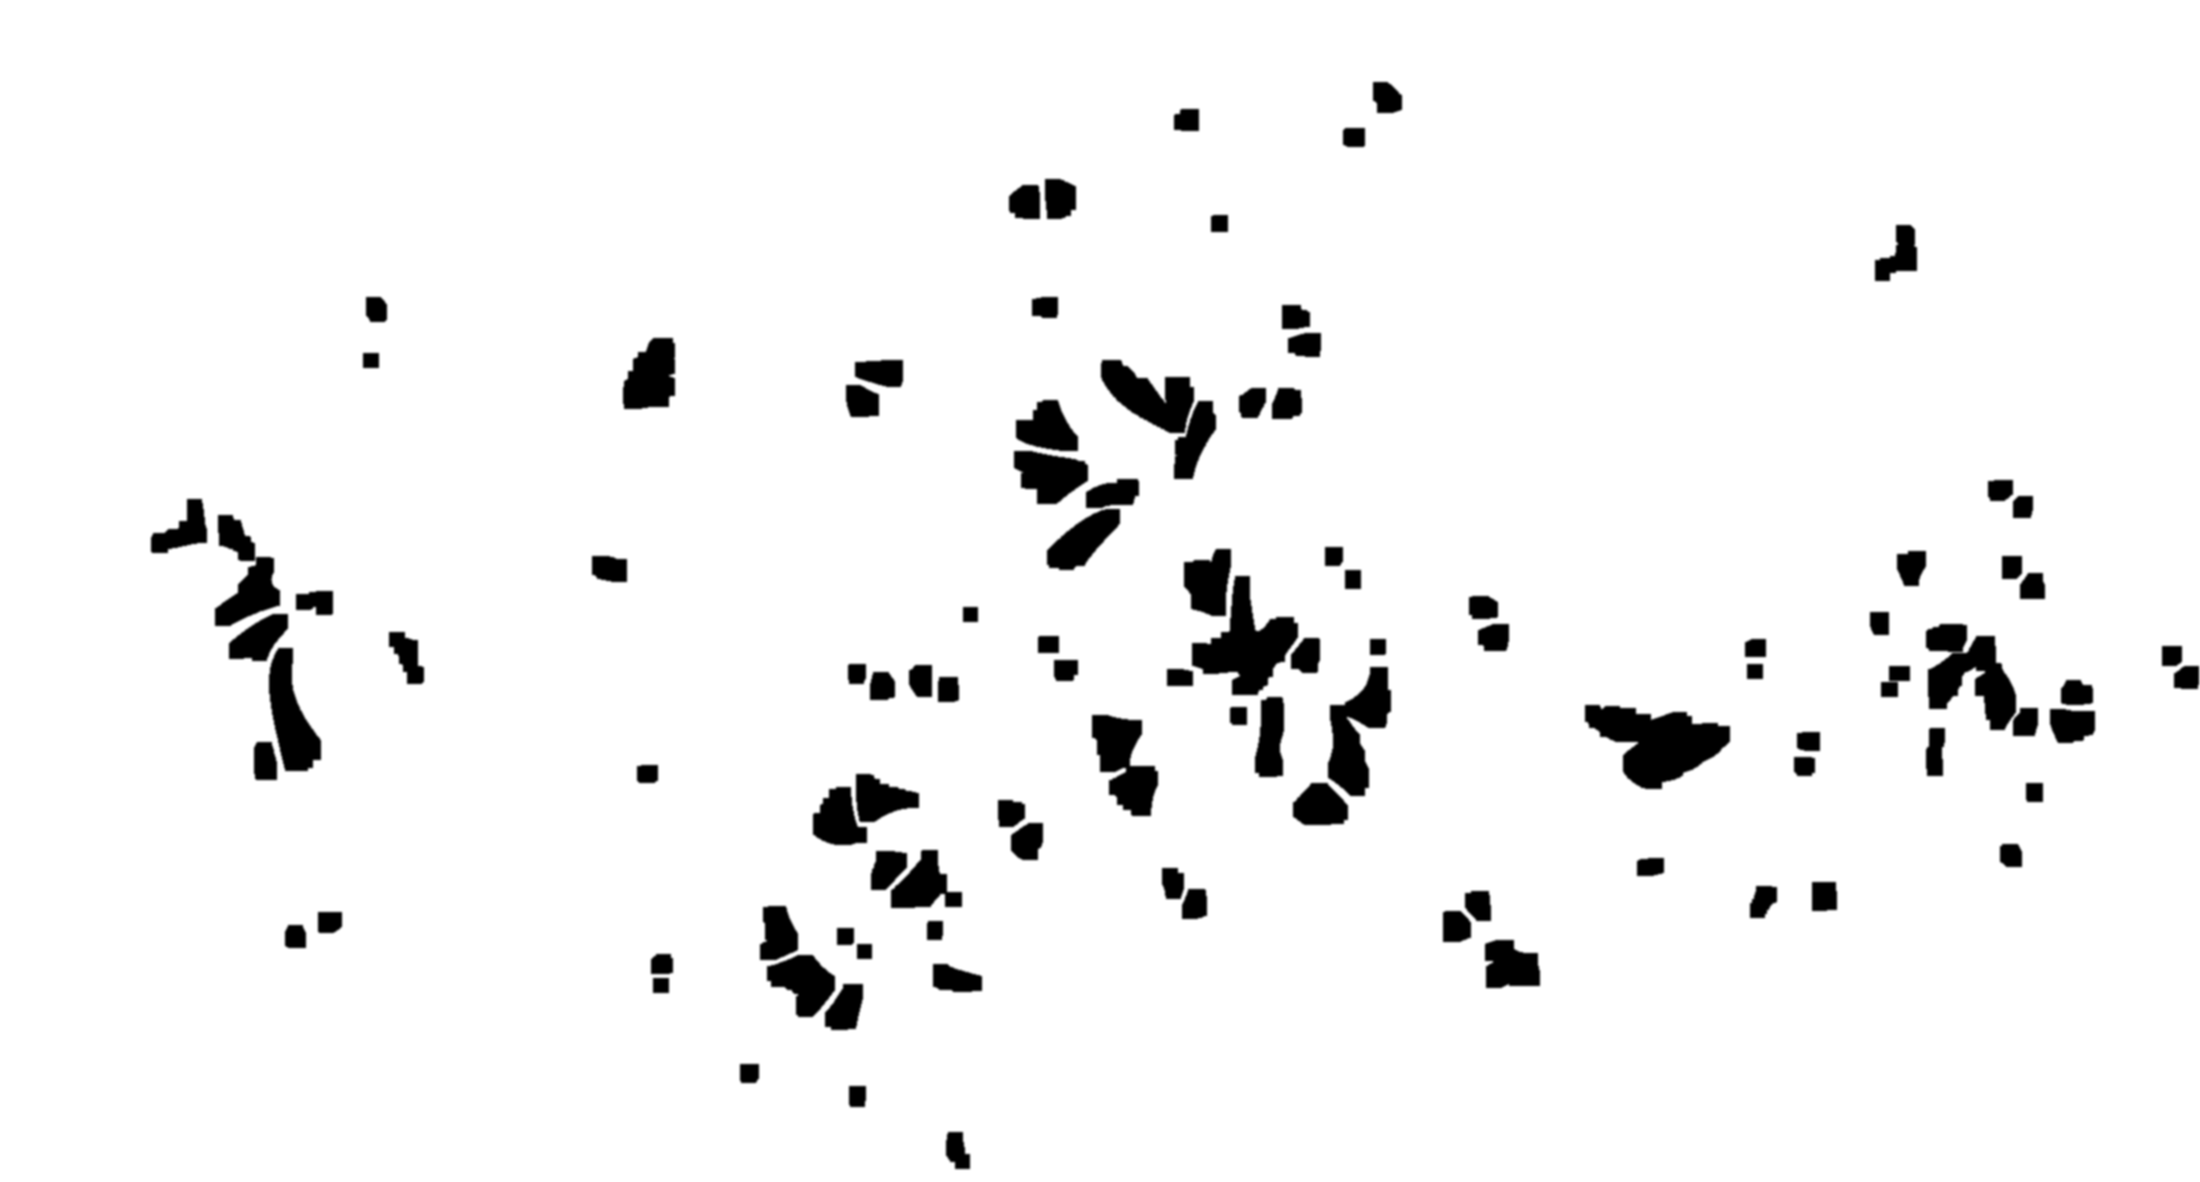
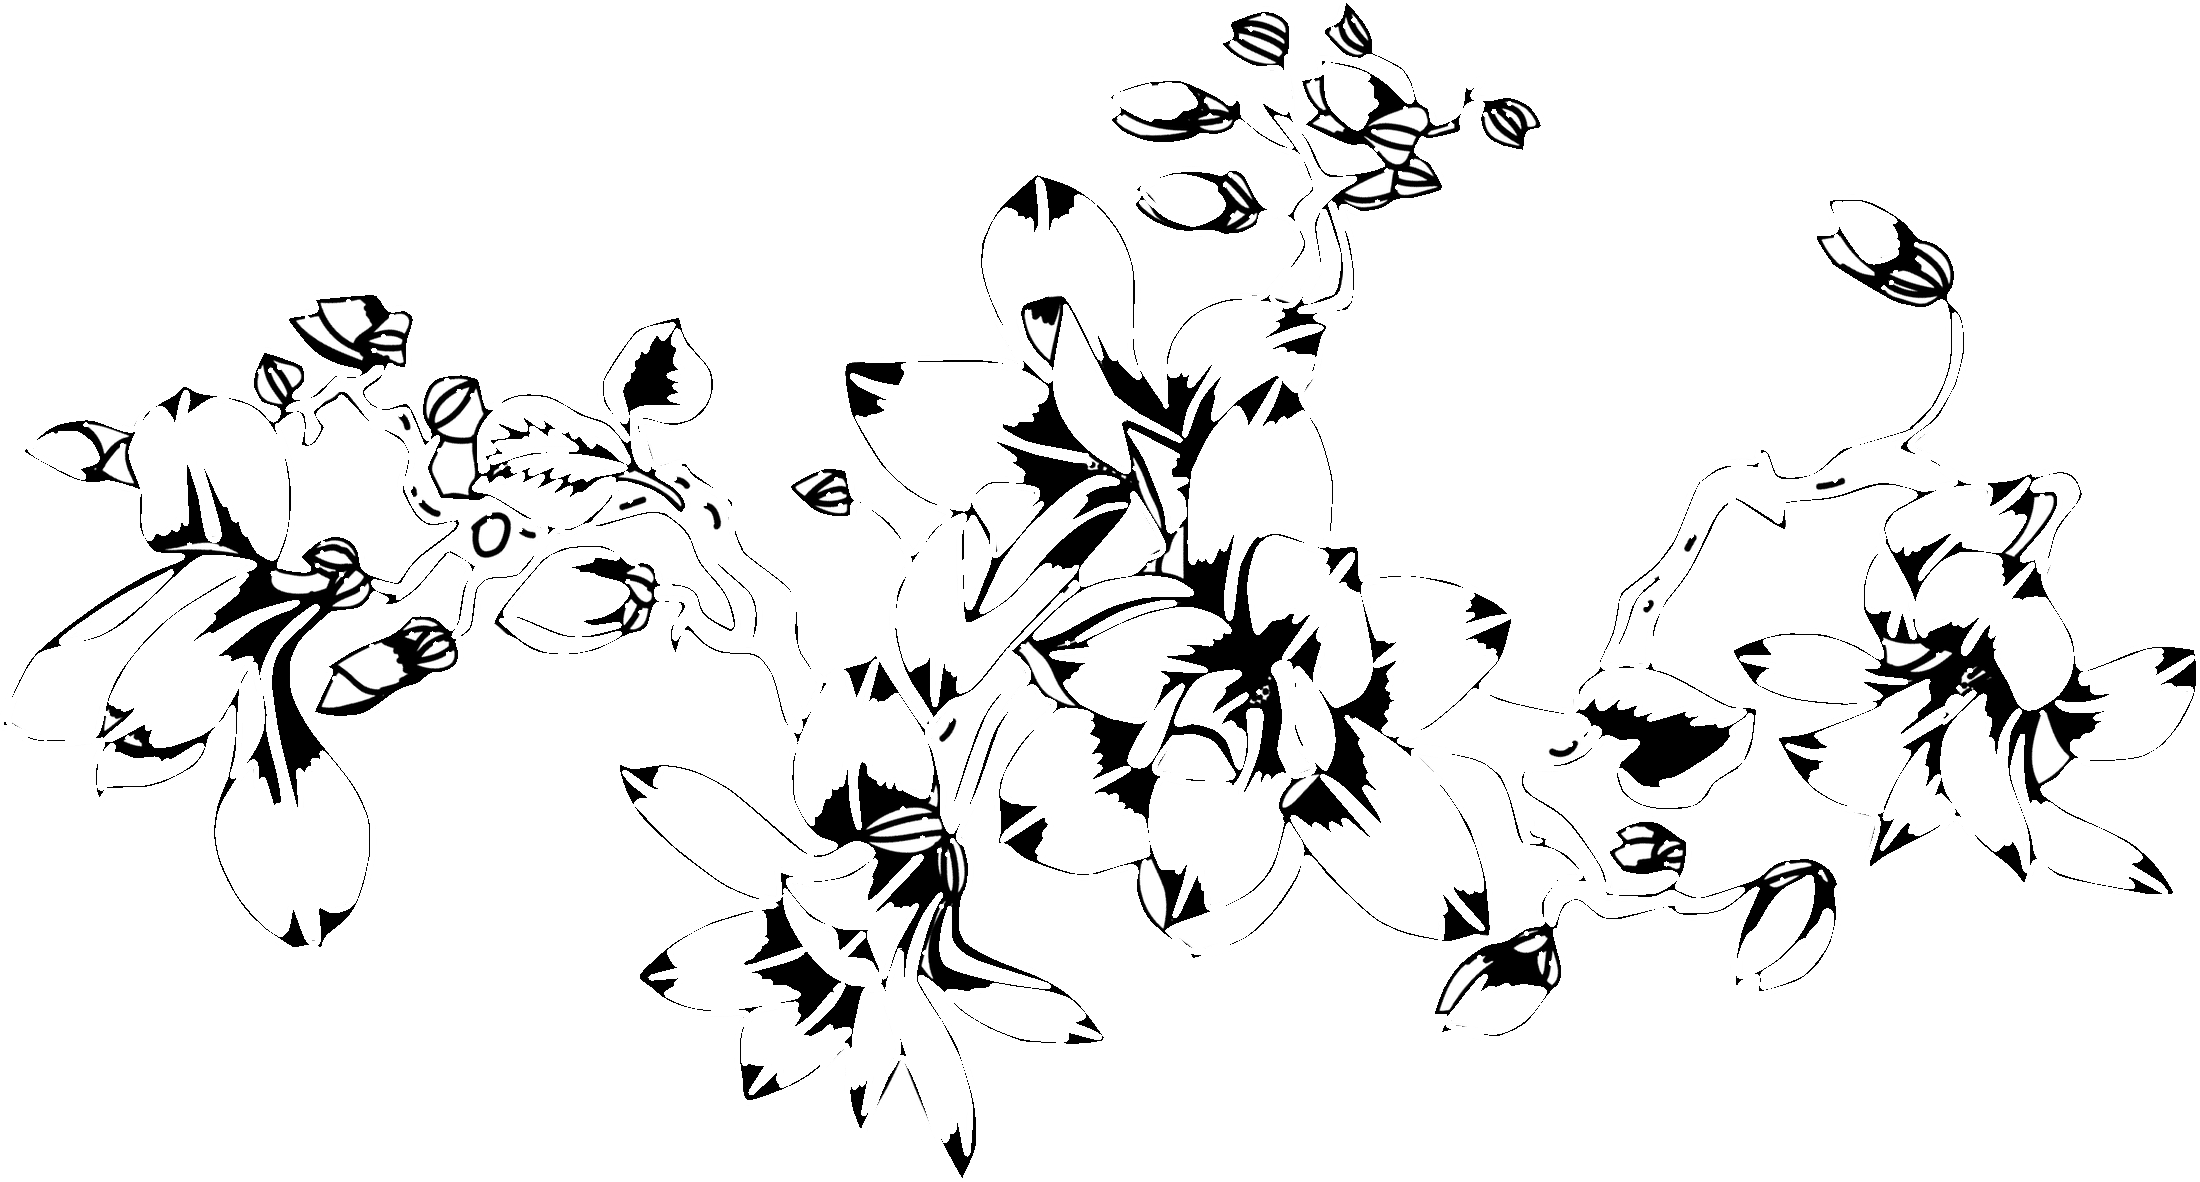
Porcelain fills: use exact original shading (outline strips removed) instead of blocky morphology blobs

diff --git a/src/components/store/PorcelainBackdrop.tsx b/src/components/store/PorcelainBackdrop.tsx
@@ -6,7 +6,9 @@ interface Props {
   opacity?: number
   /** Total animation duration in ms. Default 7000. */
   duration?: number
-  /** Outline stroke width, in viewBox units (scales with the art). Default 3. */
+  /** Outline stroke width, in viewBox units. Must match STROKE in
+   *  scripts/gen-porcelain-layers.mjs so the trace covers the removed line
+   *  strips in the fills layer. Default 5. */
   strokeWidth?: number
   className?: string
 }
@@ -37,7 +39,7 @@ const EASE = 'cubic-bezier(0.4, 0, 0.2, 1)'
 export function PorcelainBackdrop({
   opacity = 1,
   duration = 7000,
-  strokeWidth = 3,
+  strokeWidth = 5,
   className = '',
 }: Props) {
   const rootRef = useRef<HTMLDivElement>(null)
